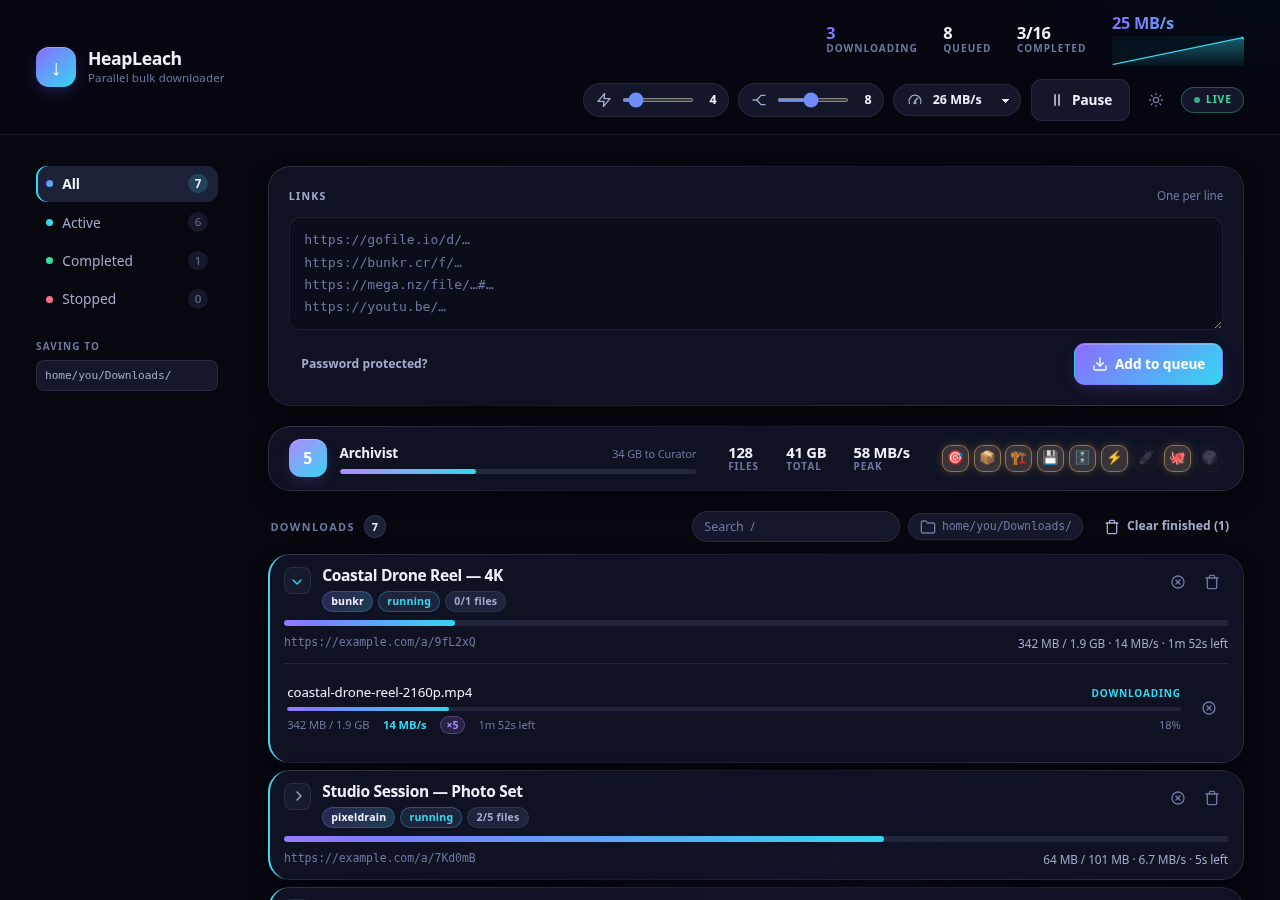
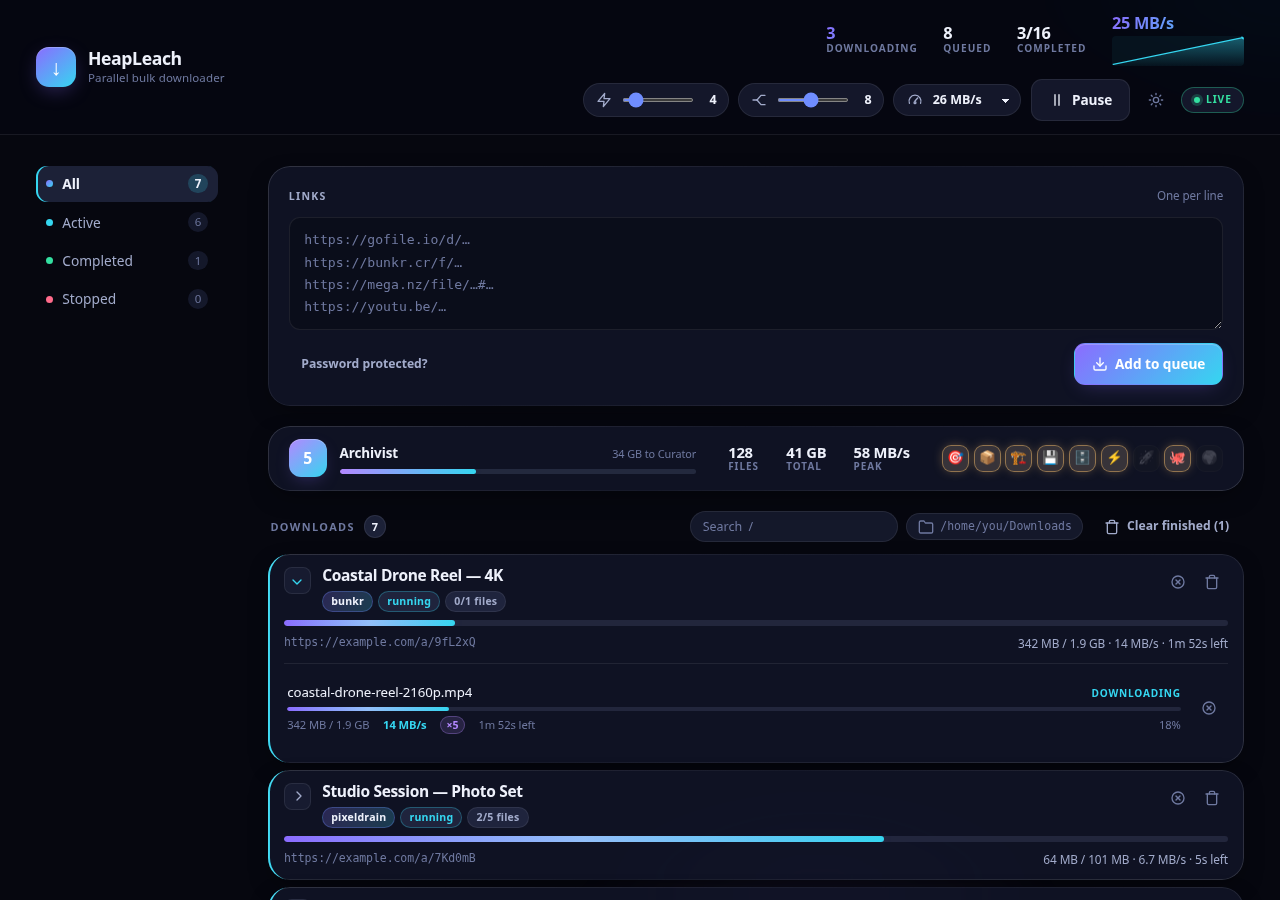
Page a KVS member listing the way the site does, not the way it offers to
The member walk paged with the platform's own asynchronous block loader --
?mode=async&function=get_block&block_id=...&from=<n> -- which is what the
site's scripts use and which does not work on a member listing: the from
parameter is ignored, so every request came back as page one, byte for
byte. The walk stopped at the first repeat, having collected the first
forty-eight videos of however many the member had, and reported that as
the whole profile. A 64-video profile downloaded 48 and looked fine.

The fix is to follow the listing's own next-page anchor, which is the
ordinary paged path the earlier comment had written off as a 404. That
404 was real but came from a profile with only one page, where page two
genuinely does not exist -- an inference drawn from a listing too short
to show the behaviour being inferred about.

Following the site's own control also removes the guesswork about where
the pages end: the last one carries no next link. The stated total and
the deduplication stay as backstops against a listing that misreports
itself, and a visited set means a pagination that ever points backwards
ends the walk rather than looping.

Alongside, three UI changes that had been sitting uncommitted:

- The sidebar's "Saving to" panel is gone. The destination moved into
  the jobs header when it became editable, and a second read-only copy
  of it a few centimetres away said nothing the button did not.
- The destination path renders right-to-left so the ellipsis eats the
[…]

diff --git a/frontend/src/styles.css b/frontend/src/styles.css
@@ -356,35 +356,6 @@ code, .mono {
   color: var(--text);
 }
 
-.sidebar__section {
-  display: flex;
-  flex-direction: column;
-  gap: 0.45rem;
-  min-width: 0;
-}
-
-.sidebar__heading {
-  font-size: 0.62rem;
-  font-weight: 620;
-  text-transform: uppercase;
-  letter-spacing: 0.12em;
-  color: var(--text-faint);
-}
-
-.sidebar__path {
-  font-size: 0.7rem;
-  color: var(--text-dim);
-  background: var(--surface-2);
-  border: 1px solid var(--edge-flat);
-  border-radius: var(--r-sm);
-  padding: 0.35rem 0.5rem;
-  overflow: hidden;
-  text-overflow: ellipsis;
-  white-space: nowrap;
-  direction: rtl;
-  text-align: left;
-}
-
 /* The live throughput graph, the thing that makes a transfer feel alive.
    Fixed dimensions and its own clipping box, so a spike cannot push the
    figures beside it onto a second row or draw outside the header. */
@@ -589,9 +560,21 @@ code, .mono {
   white-space: nowrap;
   overflow: hidden;
   text-overflow: ellipsis;
+  /* Right-to-left so the ellipsis eats the FRONT of a long path, which is
+     the half nobody needs — you want the tail. The catch is that a leading
+     "/" is bidi-neutral, so an RTL paragraph puts it at the far end and
+     /home/jl/Downloads reads as home/jl/Downloads/. The fix is the
+     left-to-right mark below, which gives that slash a direction to follow.
+     unicode-bidi: plaintext also straightens the text out, but it takes the
+     ellipsis back to the end with it, which is the behaviour being bought
+     here in the first place. */
   direction: rtl;
   text-align: left;
   font-size: 0.72rem;
+}
+
+.jobs__dir code::before {
+  content: '\200E';
 }
 
 /* It is a button now, so it has to stop looking like one of the page's own
@@ -1595,7 +1578,6 @@ button.jobs__dir:hover {
 
   .filter { padding: 0.32rem 0.6rem; }
   .filter.is-active { box-shadow: none; border: 1px solid var(--edge-flat); }
-  .sidebar__section { display: none; }
 }
 
 @media (max-width: 900px) {

diff --git a/frontend/src/components/Sidebar.tsx b/frontend/src/components/Sidebar.tsx
@@ -7,7 +7,6 @@ interface SidebarProps {
   readonly jobs: JobView[];
   readonly filter: Filter;
   readonly onFilter: (filter: Filter) => void;
-  readonly downloadDir: string;
 }
 
 /** Which filter a job belongs to. */
@@ -31,7 +30,7 @@ const GROUPS: { key: Filter; label: string; dot: Status | 'all' }[] = [
   { key: 'failed', label: 'Stopped', dot: 'failed' },
 ];
 
-export function Sidebar({ jobs, filter, onFilter, downloadDir }: SidebarProps) {
+export function Sidebar({ jobs, filter, onFilter }: SidebarProps) {
   return (
     <aside className="sidebar">
       <nav className="sidebar__nav" aria-label="Filter downloads">
@@ -52,13 +51,6 @@ export function Sidebar({ jobs, filter, onFilter, downloadDir }: SidebarProps) {
           );
         })}
       </nav>
-
-      <div className="sidebar__section">
-        <h2 className="sidebar__heading">Saving to</h2>
-        <code className="sidebar__path" title={downloadDir}>
-          {downloadDir}
-        </code>
-      </div>
     </aside>
   );
 }

diff --git a/frontend/src/App.tsx b/frontend/src/App.tsx
@@ -151,12 +151,7 @@ export default function App() {
       </header>
 
       <div className="shell">
-        <Sidebar
-          jobs={snapshot.jobs}
-          filter={filter}
-          onFilter={setFilter}
-          downloadDir={snapshot.downloadDir}
-        />
+        <Sidebar jobs={snapshot.jobs} filter={filter} onFilter={setFilter} />
 
         <main className="main">
         <AddForm onNotice={notify} />

diff --git a/backend/internal/extractor/kvsmembers.go b/backend/internal/extractor/kvsmembers.go
@@ -17,25 +17,24 @@ import (
 
 // A member's public videos on a Kernel Video Sharing install.
 //
-// The platform lists them at /members/<id>/public_videos/, fifteen at a time,
-// and pages through them with its own asynchronous block loader rather than
-// with an ordinary URL: appending ?mode=async&function=get_block&block_id=...
-// &from=<n> returns just the listing fragment. The paged path a reader would
-// guess at — /public_videos/2/ — is a 404.
+// The platform lists them at /members/<id>/public_videos/, forty-eight at a
+// time, and pages them at /public_videos/<n>/. The walk follows the listing's
+// own "next" anchor rather than building those paths itself, which is both
+// simpler and the only version that cannot be wrong about where the pages
+// stop: the last one carries no next link at all.
 //
-// Two things decide the shape of the walk below.
+// That deserves a note, because the platform offers a second mechanism that
+// looks right and is not. Appending ?mode=async&function=get_block&block_id=
+// ...&from=<n> returns the listing as a bare fragment, which is what the
+// site's own scripts use — but the from parameter is ignored on a member
+// listing. Every page comes back as page one, byte for byte, and a walk built
+// on it stops at the first repeat having quietly collected only the first
+// forty-eight of however many there are. It looks like it works, which is the
+// worst way for it to fail.
 //
-// Asking for a page past the end returns the FIRST page again, byte for byte,
-// rather than an empty one. So the stop condition cannot be "the page was
-// empty"; it is "the page added nothing new", which is what bunkr's albums
-// and fapello's listings already do here for the same reason. The listing
-// also states its own total — "Showing 1 - 15 of 15 videos" — which is read
-// where it can be, as a second and cheaper way to know when to stop.
-//
-// The block id is read off the first page rather than compiled in. It is
-// derivable from the section name, but the container is right there in the
-// markup and taking it from the page means an install that names its blocks
-// differently still works.
+// The stated total — "Showing 49 - 64 of 64" — is read as a second stop, and
+// pages are deduplicated, so a listing that ever does repeat itself ends the
+// walk rather than looping.
 //
 // This is only offered on the hosts registered as KVS. The direct-link
 // sniffer deliberately does not look at /members/ paths: that is far too
@@ -47,11 +46,7 @@ import (
 // unambiguously theirs and reachable without an account.
 const kvsMemberSection = "public_videos"
 
-// kvsListingBlock finds the container the platform puts its listing in, whose
-// id names the block to ask for the next page of.
-var kvsListingBlock = regexp.MustCompile(`id="(list_videos_[a-z0-9_]+)_items"`)
-
-// kvsShowingTotal reads the "Showing 1 - 15 of 15 videos" line, which is how
+// kvsShowingTotal reads the "Showing 49 - 64 of 64 videos" line, which is how
 // the listing states how far it goes.
 var kvsShowingTotal = regexp.MustCompile(`Showing\s+\d+\s*-\s*\d+\s+of\s+(\d+)`)
 
@@ -108,22 +103,19 @@ func kvsMember(ctx context.Context, client *httpx.Client, listing, label string)
 // kvsMemberPages walks the listing and collects every video page it names.
 func kvsMemberPages(ctx context.Context, client *httpx.Client, listing, label string) ([]string, string, error) {
 	var (
-		pages []string
-		title string
-		block string
-		total int
-		seen  = make(map[string]bool)
+		pages   []string
+		title   string
+		total   int
+		seen    = make(map[string]bool)
+		visited = make(map[string]bool)
+		target  = listing
 	)
 
-	for page := 1; page <= config.MaxAlbumPages; page++ {
-		target := listing
-		if page > 1 {
-			if block == "" {
-				break // the first page named no block, so there is no second
-			}
-			target = fmt.Sprintf("%s?mode=async&function=get_block&block_id=%s&sort_by=&from=%d",
-				listing, url.QueryEscape(block), page)
+	for page := 1; page <= config.MaxAlbumPages && target != ""; page++ {
+		if visited[target] {
+			break // the listing pointed back at a page already walked
 		}
+		visited[target] = true
 
 		doc, err := client.GetString(ctx, target, httpx.Referer(listing))
 		if err != nil {
@@ -138,9 +130,6 @@ func kvsMemberPages(ctx context.Context, client *httpx.Client, listing, label st
 		}
 		if page == 1 {
 			title = kvsMemberTitle(root, doc)
-			if m := kvsListingBlock.FindStringSubmatch(doc); m != nil {
-				block = m[1]
-			}
 			if m := kvsShowingTotal.FindStringSubmatch(doc); m != nil {
 				total, _ = strconv.Atoi(m[1])
 			}
@@ -155,8 +144,6 @@ func kvsMemberPages(ctx context.Context, client *httpx.Client, listing, label st
 			pages = append(pages, link)
 			added++
 		}
-		// Past the end the platform serves the first page again rather than
-		// an empty one, so "nothing new" is the only reliable stop.
 		if added == 0 {
 			break
 		}
@@ -166,8 +153,34 @@ func kvsMemberPages(ctx context.Context, client *httpx.Client, listing, label st
 		if len(pages) >= config.MaxListingFiles {
 			break
 		}
+		// The listing itself says where the next page is, and says nothing
+		// on the last one. That is the stop condition; everything above is
+		// a guard against a listing that misreports itself.
+		target = kvsNextPage(root, listing)
 	}
 	return pages, title, nil
+}
+
+// kvsNextPage follows the listing's own "next" control.
+func kvsNextPage(root *html.Node, base string) string {
+	baseURL, err := url.Parse(base)
+	if err != nil {
+		return ""
+	}
+	next := findFirst(root, func(n *html.Node) bool {
+		return hasClass(n, "pagination-next")
+	})
+	if next == nil {
+		return ""
+	}
+	// The class sits on the list item, with the link inside it.
+	if isElem(next, atom.A) {
+		return resolveRef(baseURL, attr(next, "href"))
+	}
+	if a := findFirst(next, func(n *html.Node) bool { return isElem(n, atom.A) }); a != nil {
+		return resolveRef(baseURL, attr(a, "href"))
+	}
+	return ""
 }
 
 // kvsListingVideos reads the video pages a listing links to.

diff --git a/backend/internal/extractor/kvsmembers_test.go b/backend/internal/extractor/kvsmembers_test.go
@@ -5,12 +5,12 @@ import (
 	"testing"
 )
 
-// A listing page shaped like the platform's, carrying the three things the
-// walk depends on and the trap it has to survive: the block id that names the
-// next page, the stated total, video tiles — and the site's own furniture,
-// which is linked exactly like the tiles are and must not be mistaken for
-// them. One tile is repeated, because the platform prints a video twice when
-// it is both recent and popular.
+// A listing page shaped like the platform's, carrying what the walk depends
+// on and the trap it has to survive: the stated total, the pagination the
+// walk follows, video tiles — and the site's own furniture, which is linked
+// exactly like the tiles are and must not be mistaken for them. One tile is
+// repeated, because the platform prints a video twice when it is both recent
+// and popular.
 const kvsMemberListing = `<!DOCTYPE html><html><head>
 <title>Someone's Profile | Example Tube</title>
 </head><body>
@@ -21,7 +21,7 @@ const kvsMemberListing = `<!DOCTYPE html><html><head>
   <a href="https://other.example.test/videos/1/elsewhere/">A video on another site</a>
 </nav>
 <div class="headline"><h2>Someone's Public Videos</h2>
-  <span>Showing 1 - 3 of 3 videos</span>
+  <span>Showing 1 - 3 of 5 videos</span>
 </div>
 <div class="thumbs-items" id="list_videos_public_videos_items">
   <a href="https://tube.example.test/videos/11/first-clip/" class="tumbpu"><span>First</span></a>
@@ -29,6 +29,26 @@ const kvsMemberListing = `<!DOCTYPE html><html><head>
   <a href="https://tube.example.test/videos/11/first-clip/" class="tumbpu"><span>First again</span></a>
   <a href="https://tube.example.test/videos/13/third-clip/" class="tumbpu"><span>Third</span></a>
 </div>
+<div class="pagination"><ul class="pagination-list">
+  <li class="active false"><span>1</span></li>
+  <li><a class="selective" href="/members/4242/public_videos/2/">2</a></li>
+  <li class="pagination-next"><a class="selective" href="/members/4242/public_videos/2/"><i class="ico-pagination-right"></i></a></li>
+</ul></div>
+</body></html>`
+
+// The last page. The platform prints the pagination list without a next
+// control, which is the only signal that the walk has reached the end.
+const kvsMemberLastPage = `<!DOCTYPE html><html><body>
+<div class="headline"><h2>Someone's Public Videos</h2>
+  <span>Showing 4 - 5 of 5 videos</span>
+</div>
+<div class="thumbs-items" id="list_videos_public_videos_items">
+  <a href="https://tube.example.test/videos/14/fourth-clip/" class="tumbpu"><span>Fourth</span></a>
+</div>
+<div class="pagination"><ul class="pagination-list">
+  <li><a class="selective" href="/members/4242/public_videos/">1</a></li>
+  <li class="active false"><span>2</span></li>
+</ul></div>
 </body></html>`
 
 func TestKVSMemberPathAcceptsAnySection(t *testing.T) {
@@ -118,20 +138,43 @@ func TestKVSMemberTitleFallsBackToTheHeading(t *testing.T) {
 	}
 }
 
-// The two values the walk reads out of the first page to know how to ask for
-// the second, and when to stop asking.
-func TestKVSListingBlockAndTotal(t *testing.T) {
-	m := kvsListingBlock.FindStringSubmatch(kvsMemberListing)
-	if m == nil || m[1] != "list_videos_public_videos" {
-		t.Errorf("block id = %v, want list_videos_public_videos", m)
+// How the walk moves and how it stops. The next control is on the list item
+// rather than on the anchor, so reading the href means descending into it.
+func TestKVSNextPageFollowsThePaginationControl(t *testing.T) {
+	const base = "https://tube.example.test/members/4242/public_videos/"
+
+	root, err := parseHTML(kvsMemberListing)
+	if err != nil {
+		t.Fatal(err)
 	}
-	n := kvsShowingTotal.FindStringSubmatch(kvsMemberListing)
-	if n == nil || n[1] != "3" {
-		t.Errorf("total = %v, want 3", n)
+	want := "https://tube.example.test/members/4242/public_videos/2/"
+	if got := kvsNextPage(root, base); got != want {
+		t.Errorf("next page = %q, want %q", got, want)
 	}
-	// A listing with neither is still walkable — it simply stops after the
-	// page it could read.
-	if kvsListingBlock.MatchString(`<div class="thumbs-items">`) {
-		t.Error("matched a container with no block id")
+
+	// The last page carries a pagination list but no next control, and that
+	// absence is the whole stop condition — a walk that missed it would ask
+	// for a page that does not exist.
+	last, err := parseHTML(kvsMemberLastPage)
+	if err != nil {
+		t.Fatal(err)
+	}
+	if got := kvsNextPage(last, base); got != "" {
+		t.Errorf("next page on the last page = %q, want none", got)
+	}
+}
+
+// The total the listing states, which stops the walk even if a site ever
+// paginates in a circle.
+func TestKVSShowingTotal(t *testing.T) {
+	m := kvsShowingTotal.FindStringSubmatch(kvsMemberListing)
+	if m == nil || m[1] != "5" {
+		t.Errorf("total = %v, want 5", m)
+	}
+	// Real listings say "Showing 49 - 64 of 64 videos" on a later page; the
+	// total is the last number, not the first.
+	m = kvsShowingTotal.FindStringSubmatch(kvsMemberLastPage)
+	if m == nil || m[1] != "5" {
+		t.Errorf("total on a later page = %v, want 5", m)
 	}
 }
